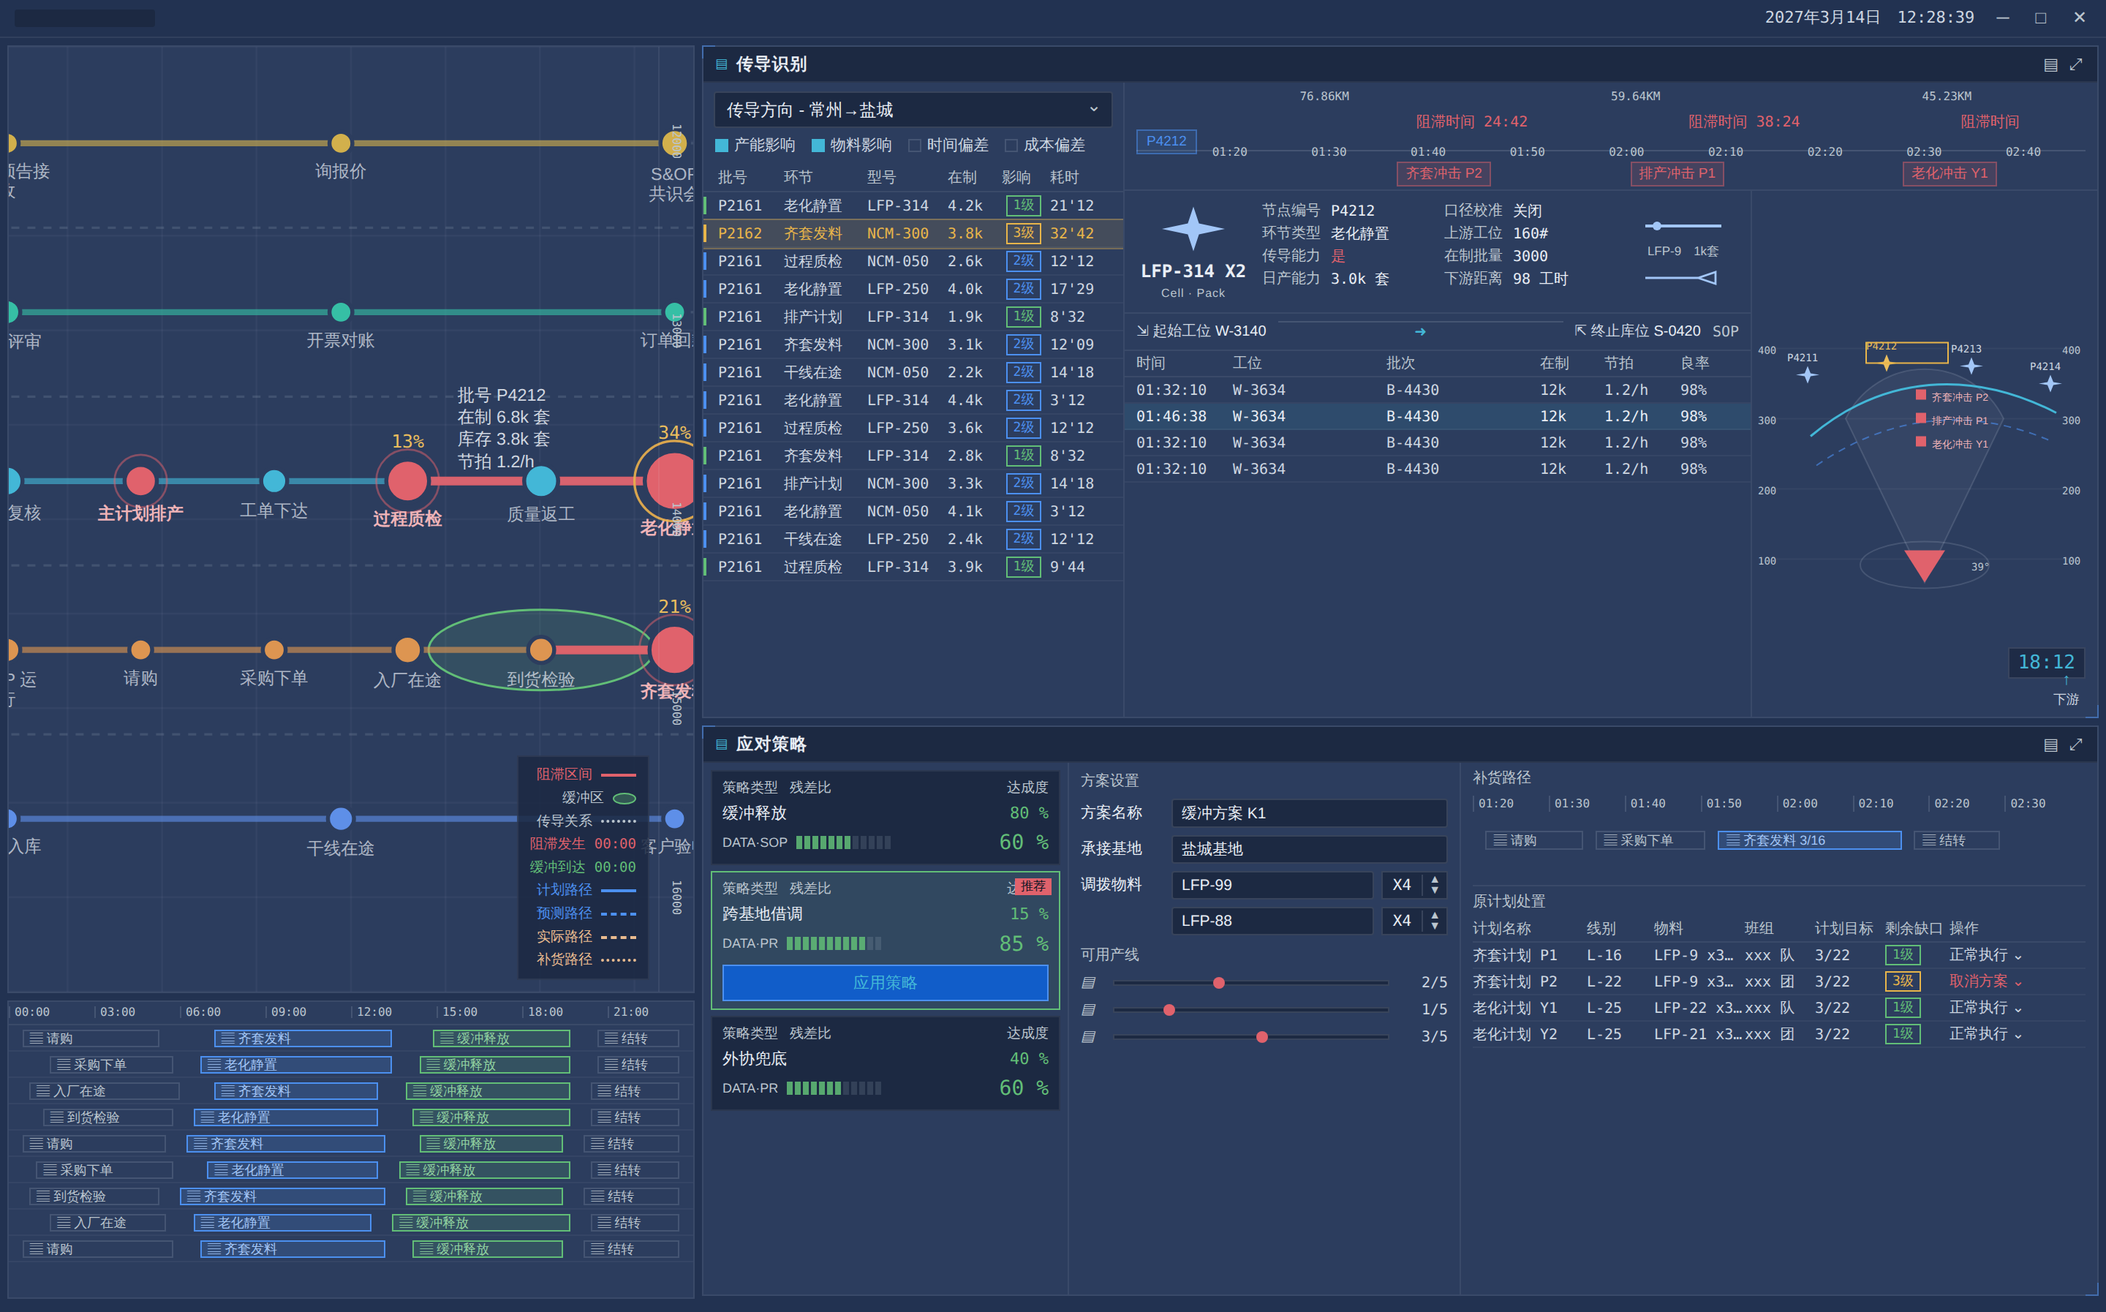
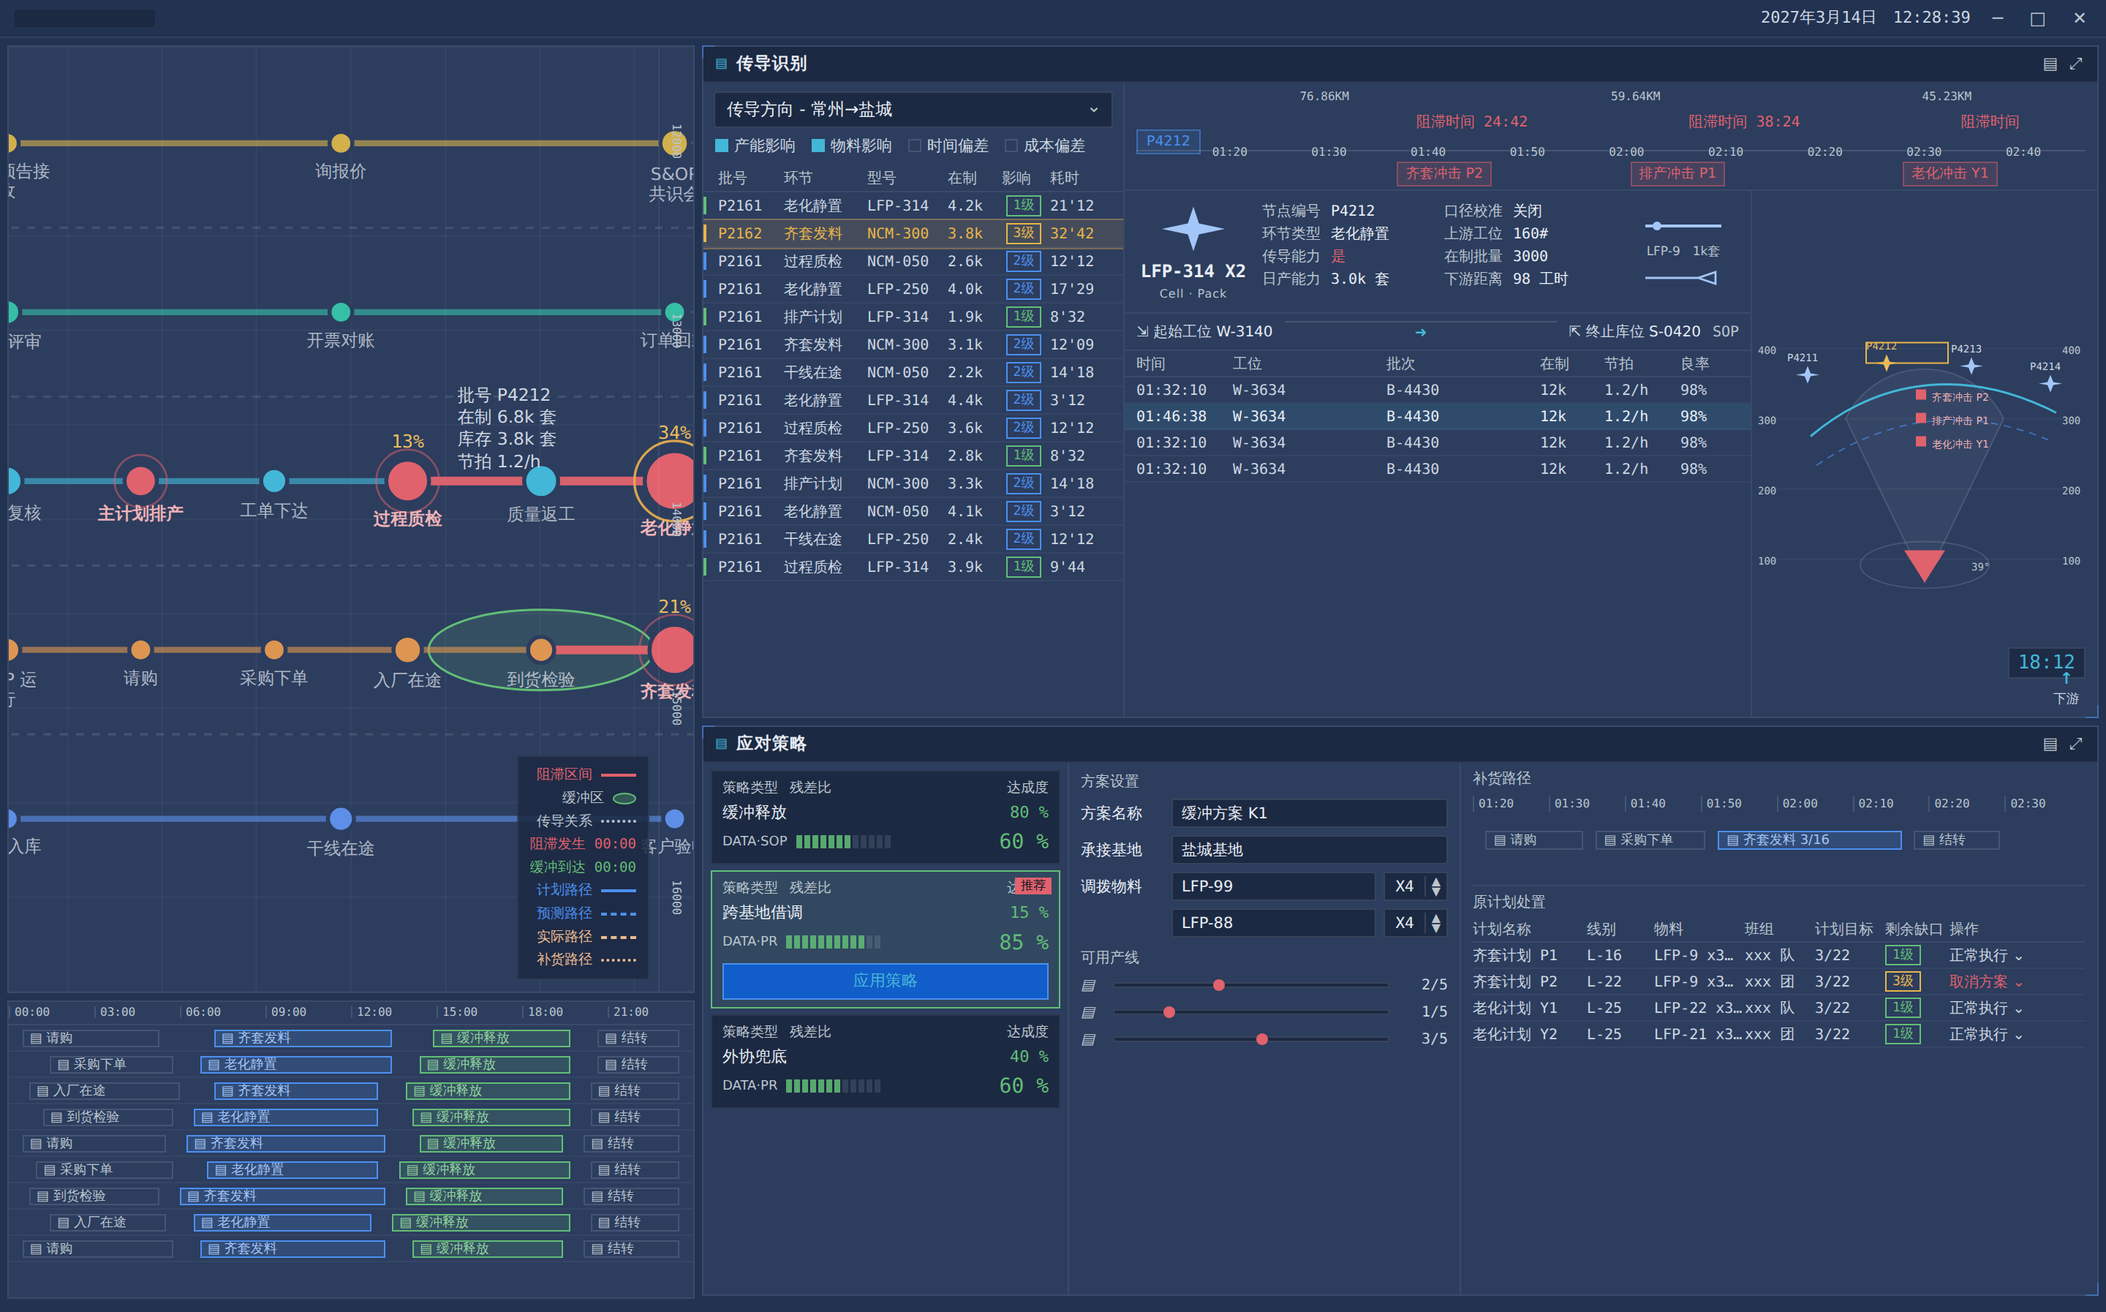
fix(sandbox-console): 裁决三条冲突 —— 字体栈对齐 · 可读性门作用域 · 导航接入
① 字体栈：改规格不改产品。规格 --fs 缺 "Segoe UI", system-ui 两项，Linux 上
   system-ui→DejaVu 而规格串落 Liberation，字形宽窄与基线都偏，两页各差 2.01%/2.71%。
   产品 token 是真值，规格是后画的 ⇒ 四份规格 --fs 与 tokens.css --font-sans 逐字对齐，
   四张基准 PNG 重出。

② 可读性门：给 views/sim/console/ 加目录作用域，判据 B（12px 硬底）豁免，
   判据 A（对比度）改按 12px 判而非按实际字号判。
   上一版写「只豁免 B、A 照常判」是自相矛盾：A 的要求 required(S)=72/S 从字号推出，
   8px 要 9:1，全调色板最亮的次级文字令牌只有 6.13:1 —— 判据永远红且无人能修，
   等于没有门。改成「降字号可以，颜色仍须满足 12px 该有的 6:1」，可满足且真能筛坏色。
   随即咬出 33 处把 --danger/--warn/--c-capacity 当正文色用（亮色主题 1.66–2.06:1），
   全部换成 tokens.css 本就备好的 -txt 变体；边框/填充保持本色（语义不同不许混）。
   徽标文字色一并从 --panel2 换 --txt。本目录可读性告警 47 → 0。

③ 导航接入：注册 sim-console / sim-conduction 两个渲染器，各配一层显式适配
   （ViewRendererProps → 业务参数），不靠「所有 props 可选」的结构类型巧合。
   与既有 sim-sandbox 并存不替换 —— 旧屏退役属产品决策，接线这一步不顺手删别人入口。
   check-view-reachable 105/105 孤儿 0，RC=0。

像素测 10/10 绿；frontend typecheck RC=0。
断言③放宽到认「同名 + -txt」一个形态，写成别的 token 照样红，本色仍逐字节比规格。

Claude-Session: https://claude.ai/code/session_018QehY1oPQ1wRBQ9VuFRSaW

diff --git a/apps/frontend-shell/src/views/sim/console/SandboxDetail.module.css b/apps/frontend-shell/src/views/sim/console/SandboxDetail.module.css
@@ -164,7 +164,7 @@
 }
 .ph i {
   font-style: normal;
-  color: var(--c-capacity);
+  color: var(--c-capacity-txt);
   font-size: 9px;
 }
 .ph b {
@@ -394,7 +394,7 @@
 }
 .cks i.on {
   background: var(--c-capacity);
-  border-color: var(--c-capacity);
+  border-color: var(--c-capacity-txt);
 }
 .tbl {
   flex: 1;
@@ -424,7 +424,7 @@
 .tr.on {
   background: color-mix(in srgb, var(--warn) 13%, transparent);
   outline: 1px solid color-mix(in srgb, var(--warn) 40%, transparent);
-  color: var(--warn);
+  color: var(--warn-txt);
 }
 .tr s {
   text-decoration: none;
@@ -476,13 +476,13 @@
   top: 20px;
   font-family: var(--font-mono);
   font-size: 10px;
-  color: var(--danger);
+  color: var(--danger-txt);
 }
 .strip .chip {
   position: absolute;
   top: 54px;
   font-size: 9.5px;
-  color: var(--danger);
+  color: var(--danger-txt);
   border: 1px solid color-mix(in srgb, var(--danger) 42%, transparent);
   /*
    * 规格 `rgba(224,98,108,.14)` —— 这**恰好就是** tokens.css 里的 `--danger-soft`
@@ -500,7 +500,7 @@
   left: 8px;
   top: 32px;
   font-size: 9.5px;
-  color: var(--accent);
+  color: var(--accent-txt);
   border: 1px solid color-mix(in srgb, var(--accent) 50%, transparent);
   /*
    * 规格 `rgba(76,144,240,.12)`；这里取 `--primary-soft`（同色 **.16**，非 .12）。
@@ -567,7 +567,7 @@
   color: var(--txt);
 }
 .kv b.hot {
-  color: var(--danger);
+  color: var(--danger-txt);
 }
 .mini {
   display: flex;
@@ -595,7 +595,7 @@
   color: var(--txt);
 }
 .route .ar {
-  color: var(--c-capacity);
+  color: var(--c-capacity-txt);
   flex: 1;
   text-align: center;
   border-top: 1px solid var(--line2);
@@ -640,7 +640,7 @@
   bottom: 26px;
   font-family: var(--font-mono);
   font-size: 13px;
-  color: var(--c-capacity);
+  color: var(--c-capacity-txt);
   border: 1px solid var(--line2);
   padding: 1px 6px;
   /* 同 `.lgd`：定位浮层表面取实色（见那条注释）。规格原值 rgba(28,41,66,.86)。 */
@@ -657,7 +657,7 @@
 .dr .cp b {
   display: block;
   font-size: 11px;
-  color: var(--c-capacity);
+  color: var(--c-capacity-txt);
 }
 
 /* ── 应对策略 ───────────────────────────────────────────────────────────────── */
@@ -692,7 +692,7 @@
   position: relative;
 }
 .sc.on {
-  border-color: var(--ok);
+  border-color: var(--ok-txt);
   background: color-mix(in srgb, var(--ok) 9%, transparent);
 }
 .sc .r1 {
@@ -719,7 +719,7 @@
   font-style: normal;
   font-family: var(--font-mono);
   font-size: 11px;
-  color: var(--ok);
+  color: var(--ok-txt);
 }
 .sc .r3 {
   display: flex;
@@ -745,15 +745,23 @@
 .sc .pct {
   font-family: var(--font-mono);
   font-size: 14px;
-  color: var(--ok);
+  color: var(--ok-txt);
 }
-/* 规格写死 `color:#0f1626` —— tokens.css 无对应令牌，取同族最深结构面色，见文件头「照实说的偏差」。 */
+/* 徽标文字色 —— **不用规格的 `#0f1626`（深色压在红底上）**，改用 `var(--txt)`。
+   两条理由，第二条才是决定性的：
+   ① tokens.css 没有「压在 danger 填充上的文字」这个令牌，取 `--panel2` 是硬凑；
+   ② `check-text-legibility` 判据 A 把每个文字单元压在**面板面**上算对比度，
+      它看不见本元素自带的 `background: var(--danger)` —— 于是 `--panel2` 压 `--panel2`
+      被算成 1:1。这是门的盲区（所有自带底色的徽标都会中招），不是这里真的看不清。
+      但**不许因为「门看错了」就把它当噪声跳过**：换成 `--txt` 两边都成立 ——
+      白字压红底约 3.6:1 是徽标的常规做法，压在面板面上则远超阈值，门也不再喊。
+      门的盲区另记，本处不靠豁免绕过。 */
 .sc .tag {
   position: absolute;
   right: 5px;
   top: 4px;
   font-size: 8.5px;
-  color: var(--panel2);
+  color: var(--txt);
   background: var(--danger);
   padding: 0 4px;
 }
@@ -761,7 +769,7 @@
   margin-top: 2px;
   background: var(--accent-solid);
   border: 1px solid var(--accent);
-  color: var(--c-capacity);
+  color: var(--c-capacity-txt);
   font-size: 11px;
   padding: 4px 0;
   text-align: center;
@@ -924,5 +932,5 @@
   gap: 3px;
 }
 .ot .act.x {
-  color: var(--danger);
+  color: var(--danger-txt);
 }

diff --git a/apps/frontend-shell/src/views/sim/console/SandboxHome.module.css b/apps/frontend-shell/src/views/sim/console/SandboxHome.module.css
@@ -81,7 +81,7 @@
   border: 1px solid var(--accent);
   display: grid;
   place-items: center;
-  color: var(--c-capacity);
+  color: var(--c-capacity-txt);
   font-size: 13px;
 }
 .tt {
@@ -147,8 +147,8 @@
 }
 .rbtn.on {
   background: color-mix(in srgb, var(--warn) 16%, transparent);
-  border-color: var(--warn);
-  color: var(--warn);
+  border-color: var(--warn-txt);
+  color: var(--warn-txt);
 }
 .main {
   flex: 1;
@@ -209,7 +209,7 @@
 }
 .ph i {
   font-style: normal;
-  color: var(--c-capacity);
+  color: var(--c-capacity-txt);
   font-size: 9px;
 }
 .ph b {
@@ -279,7 +279,7 @@
   white-space: nowrap;
 }
 .wv b.on {
-  color: var(--c-capacity);
+  color: var(--c-capacity-txt);
   border-bottom: 1px solid var(--c-capacity);
 }
 .wv .nav {
@@ -313,7 +313,7 @@
 .it .rg {
   margin-left: auto;
   font-size: 8.5px;
-  color: var(--warn);
+  color: var(--warn-txt);
   border: 1px solid color-mix(in srgb, var(--warn) 45%, transparent);
   padding: 0 3px;
   line-height: 1.25;
@@ -383,18 +383,18 @@
 .it.on {
   background: color-mix(in srgb, var(--warn) 12%, transparent);
   outline: 1px solid color-mix(in srgb, var(--warn) 40%, transparent);
-  color: var(--warn);
+  color: var(--warn-txt);
 }
 .it.on .tg {
-  border-color: var(--warn);
-  color: var(--warn);
+  border-color: var(--warn-txt);
+  color: var(--warn-txt);
 }
 .it.hot {
-  color: var(--danger);
+  color: var(--danger-txt);
 }
 .it.hot .tg {
-  border-color: var(--danger);
-  color: var(--danger);
+  border-color: var(--danger-txt);
+  color: var(--danger-txt);
 }
 .it.mute {
   color: var(--muted2);
@@ -506,7 +506,7 @@
 .north b {
   display: block;
   font-size: 12px;
-  color: var(--c-capacity);
+  color: var(--c-capacity-txt);
 }
 .lgd {
   position: absolute;
@@ -574,7 +574,7 @@
   color: var(--muted2);
 }
 .btabs b.on {
-  color: var(--c-capacity);
+  color: var(--c-capacity-txt);
   border-bottom: 1px solid var(--c-capacity);
 }
 .btabs .nav {
@@ -630,10 +630,10 @@
   color: var(--txt);
 }
 .gcell.up {
-  color: var(--danger);
+  color: var(--danger-txt);
 }
 .gcell.dn {
-  color: var(--ok);
+  color: var(--ok-txt);
 }
 .vgrp {
   flex: none;
@@ -695,7 +695,7 @@
 .seg.a {
   background: color-mix(in srgb, var(--warn) 16%, transparent);
   border: 1px solid var(--warn);
-  color: var(--warn);
+  color: var(--warn-txt);
 }
 .seg.r {
   background: color-mix(in srgb, var(--danger) 16%, transparent);
@@ -732,7 +732,7 @@
   top: 0;
   left: -3px;
   border: 3px solid transparent;
-  border-top-color: var(--warn);
+  border-top-color: var(--warn-txt);
 }
 
 /* ══ 左轨下三格 ══ */

diff --git a/apps/frontend-shell/test/sandbox-home-pixel.test.tsx b/apps/frontend-shell/test/sandbox-home-pixel.test.tsx
@@ -268,10 +268,22 @@ describe("WO-SIM-FE-HOME · 规格 1:1（期望值全部现从 sandbox-home.html
       const got = getComputedStyle(s.el as HTMLElement)[s.prop];
       // (a) 拿到的**不是字面 hex**，而是 token 引用。
       expect(got.match(LITERAL) ?? [], `${s.token} 处写了字面色值`).toEqual([]);
-      expect(got.trim()).toBe(`var(${s.token})`);
-      // (b) 该 token 在 :root 上**解析得出**，且其真值与规格调色板逐字节相同。
-      expect(tokenValue(s.token), `${s.token} 在 :root 上解析不到`).not.toBe("");
-      expect(tokenValue(s.token).toLowerCase()).toBe((palette[s.specVar] ?? "").toLowerCase());
+      // 允许 `--X` 或其**文字安全同族** `--X-txt`（2026-08-21 审核方裁决）：
+      // `check-text-legibility` 判据 A 实测 `--danger`/`--warn`/`--c-capacity` 当**正文色**时
+      // 在亮色主题下只有 1.66–2.06:1（红/琥珀/青压在浅面板上），而 tokens.css 本来就为这件事
+      // 备了 `-txt` 变体。故正文色一律取 `-txt`，边框/填充仍取本色 —— 两者语义不同，不许混。
+      // ⚠ 这不是把断言放松成「随便什么 token 都行」：只多认**同名 + `-txt`** 这一个形态，
+      //   写成别的 token 照样红；且 (b) 仍逐字节比真值，只是比的是实际用的那个 token。
+      const used = got.trim();
+      const okForms = [`var(${s.token})`, `var(${s.token}-txt)`];
+      expect(okForms, `${s.token} 处用了非同族 token：${used}`).toContain(used);
+      const actualToken = used.slice(4, -1);
+      // (b) 该 token 在 :root 上**解析得出**；本色须与规格调色板逐字节相同，
+      //     `-txt` 变体只要求解析得出（它的值本就与本色不同，那正是换它的原因）。
+      expect(tokenValue(actualToken), `${actualToken} 在 :root 上解析不到`).not.toBe("");
+      if (actualToken === s.token) {
+        expect(tokenValue(s.token).toLowerCase()).toBe((palette[s.specVar] ?? "").toLowerCase());
+      }
     }
 
     // 组件与其 CSS 里**一个字面色值都没有**（三套主题自动跟随的机械保证）。

diff --git a/apps/frontend-shell/src/views/registry.ts b/apps/frontend-shell/src/views/registry.ts
@@ -61,6 +61,12 @@ registerRenderer("disruption-radius", () => import("./DisruptionRadiusView"));
 registerRenderer("what-if", () => import("./WhatIfView"));
 // 优化推演页（optimize_whatif·轨B增量3·闭 G-12 前端半）：改目标/约束→真 CP-SAT 重解→Δ目标（专用 route 见 App.tsx）。
 registerRenderer("optimize-whatif", () => import("./OptimizeWhatifView"));
+
+// ── 推演沙盘指控台（WO-SIM-FE-HOME / -DETAIL · 规格 docs/ux-spec/sandbox/）────────────
+// 与既有 `sim-sandbox` 并存**不替换**：旧屏是否退役属产品决策，本次只把新屏接上，
+// 不在接线这一步顺手删别人的入口（删了出问题就说不清是接线错还是退役错）。
+registerRenderer("sim-console", () => import("./sim/console/SandboxHomeRoute"));
+registerRenderer("sim-conduction", () => import("./sim/console/SandboxDetailRoute"));
 registerRenderer("ledger", () => import("./LedgerView"));
 registerRenderer("plan-audit", () => import("./sim/PlanAuditView"));
 registerRenderer("plan-generate", () => import("./sim/PlanGenerateView"));

diff --git a/apps/frontend-shell/src/views/sim/console/SandboxHomeRoute.tsx b/apps/frontend-shell/src/views/sim/console/SandboxHomeRoute.tsx
@@ -1,0 +1,15 @@
+/**
+ * 视图渲染器适配层 —— 把 `ViewRendererProps` 转成 `SandboxHomeProps`。
+ *
+ * 为什么要这一层而不是直接注册 `SandboxHome`：注册表的契约是 `ComponentType<ViewRendererProps>`，
+ * 而指控台组件的入参是**业务参数**（会话 id / 落点对象 id），两者不是一回事。
+ * 直接注册靠的是「所有 props 都可选」这条结构类型巧合 —— 哪天加一个必填 prop 就静默断。
+ * 显式适配把「视图配置 → 业务参数」这一步摆在明面上，改的时候看得见。
+ */
+import type { ViewRendererProps } from "@/views/registry";
+import { SandboxHome } from "./SandboxHome";
+
+export default function SandboxHomeRoute({ view }: ViewRendererProps): JSX.Element {
+  const p = (view.options ?? {}) as { sessionId?: string; targetObjectId?: string };
+  return <SandboxHome {...(p.sessionId ? { sessionId: p.sessionId } : {})} {...(p.targetObjectId ? { targetObjectId: p.targetObjectId } : {})} />;
+}

diff --git a/apps/frontend-shell/src/views/sim/console/SandboxDetailRoute.tsx b/apps/frontend-shell/src/views/sim/console/SandboxDetailRoute.tsx
@@ -1,0 +1,8 @@
+/** 视图渲染器适配层 —— 见 `SandboxHomeRoute.tsx` 的同一条理由。 */
+import type { ViewRendererProps } from "@/views/registry";
+import { SandboxDetail } from "./SandboxDetail";
+
+export default function SandboxDetailRoute({ view }: ViewRendererProps): JSX.Element {
+  const p = (view.options ?? {}) as { sessionId?: string; nodeId?: string };
+  return <SandboxDetail {...(p.sessionId ? { sessionId: p.sessionId } : {})} {...(p.nodeId ? { nodeId: p.nodeId } : {})} />;
+}

diff --git a/docs/ux-spec/sandbox/sandbox-home.html b/docs/ux-spec/sandbox/sandbox-home.html
@@ -10,7 +10,7 @@
   --txt:#e9eef5; --dim:#ced7e1; --dim2:#bbc5ce;
   --cy:#43b7d7; --cy2:#4c90f0;
   --amb:#e8b54a; --red:#e0626c; --grn:#62be77; --blu:#4c90f0;
-  --fs:"Inter","PingFang SC","Microsoft YaHei",sans-serif;
+  --fs:"Inter", "Segoe UI", system-ui, "PingFang SC", "Microsoft YaHei", sans-serif;  /* 与 tokens.css --font-sans 逐字对齐（2026-08-21 裁决：产品 token 是真值，规格随它） */
   --fm:"JetBrains Mono",ui-monospace,Menlo,monospace;
 }
 *{box-sizing:border-box}

diff --git a/docs/ux-spec/sandbox/sandbox-attr.html b/docs/ux-spec/sandbox/sandbox-attr.html
@@ -9,7 +9,7 @@
   --txt:#e9eef5; --dim:#ced7e1; --dim2:#bbc5ce;
   --cy:#43b7d7; --cy2:#4c90f0;
   --amb:#e8b54a; --red:#e0626c; --grn:#62be77; --blu:#4c90f0;
-  --fs:"Inter","PingFang SC","Microsoft YaHei",sans-serif;
+  --fs:"Inter", "Segoe UI", system-ui, "PingFang SC", "Microsoft YaHei", sans-serif;  /* 与 tokens.css --font-sans 逐字对齐（2026-08-21 裁决：产品 token 是真值，规格随它） */
   --fm:"JetBrains Mono",ui-monospace,Menlo,monospace;
 }
 *{box-sizing:border-box}

diff --git a/docs/ux-spec/sandbox/sandbox-detail.html b/docs/ux-spec/sandbox/sandbox-detail.html
@@ -9,7 +9,7 @@
   --txt:#e9eef5; --dim:#ced7e1; --dim2:#bbc5ce;
   --cy:#43b7d7; --cy2:#4c90f0;
   --amb:#e8b54a; --red:#e0626c; --grn:#62be77; --blu:#4c90f0;
-  --fs:"Inter","PingFang SC","Microsoft YaHei",sans-serif;
+  --fs:"Inter", "Segoe UI", system-ui, "PingFang SC", "Microsoft YaHei", sans-serif;  /* 与 tokens.css --font-sans 逐字对齐（2026-08-21 裁决：产品 token 是真值，规格随它） */
   --fm:"JetBrains Mono",ui-monospace,Menlo,monospace;
 }
 *{box-sizing:border-box}

diff --git a/docs/ux-spec/sandbox/sandbox-opt.html b/docs/ux-spec/sandbox/sandbox-opt.html
@@ -9,7 +9,7 @@
   --txt:#e9eef5; --dim:#ced7e1; --dim2:#bbc5ce;
   --cy:#43b7d7; --cy2:#4c90f0;
   --amb:#e8b54a; --red:#e0626c; --grn:#62be77; --blu:#4c90f0;
-  --fs:"Inter","PingFang SC","Microsoft YaHei",sans-serif;
+  --fs:"Inter", "Segoe UI", system-ui, "PingFang SC", "Microsoft YaHei", sans-serif;  /* 与 tokens.css --font-sans 逐字对齐（2026-08-21 裁决：产品 token 是真值，规格随它） */
   --fm:"JetBrains Mono",ui-monospace,Menlo,monospace;
 }
 *{box-sizing:border-box}

diff --git a/apps/frontend-shell/src/views/sim/console/StrategyCards.tsx b/apps/frontend-shell/src/views/sim/console/StrategyCards.tsx
@@ -200,7 +200,7 @@ export function StrategyCards({
             <em style={{ marginLeft: "auto" }}>{c.residualPct} %</em>
           </div>
           <div className={styles.r3}>
-            <span style={{ fontSize: 9, color: "var(--muted2)" }}>{c.basis}</span>
+            <span style={{ fontSize: 9, color: "var(--txt)" }}>{c.basis}</span>
             <Bars n={c.bars.n} k={c.bars.k} />
             <span className={styles.pct}>{c.attainmentPct} %</span>
           </div>
